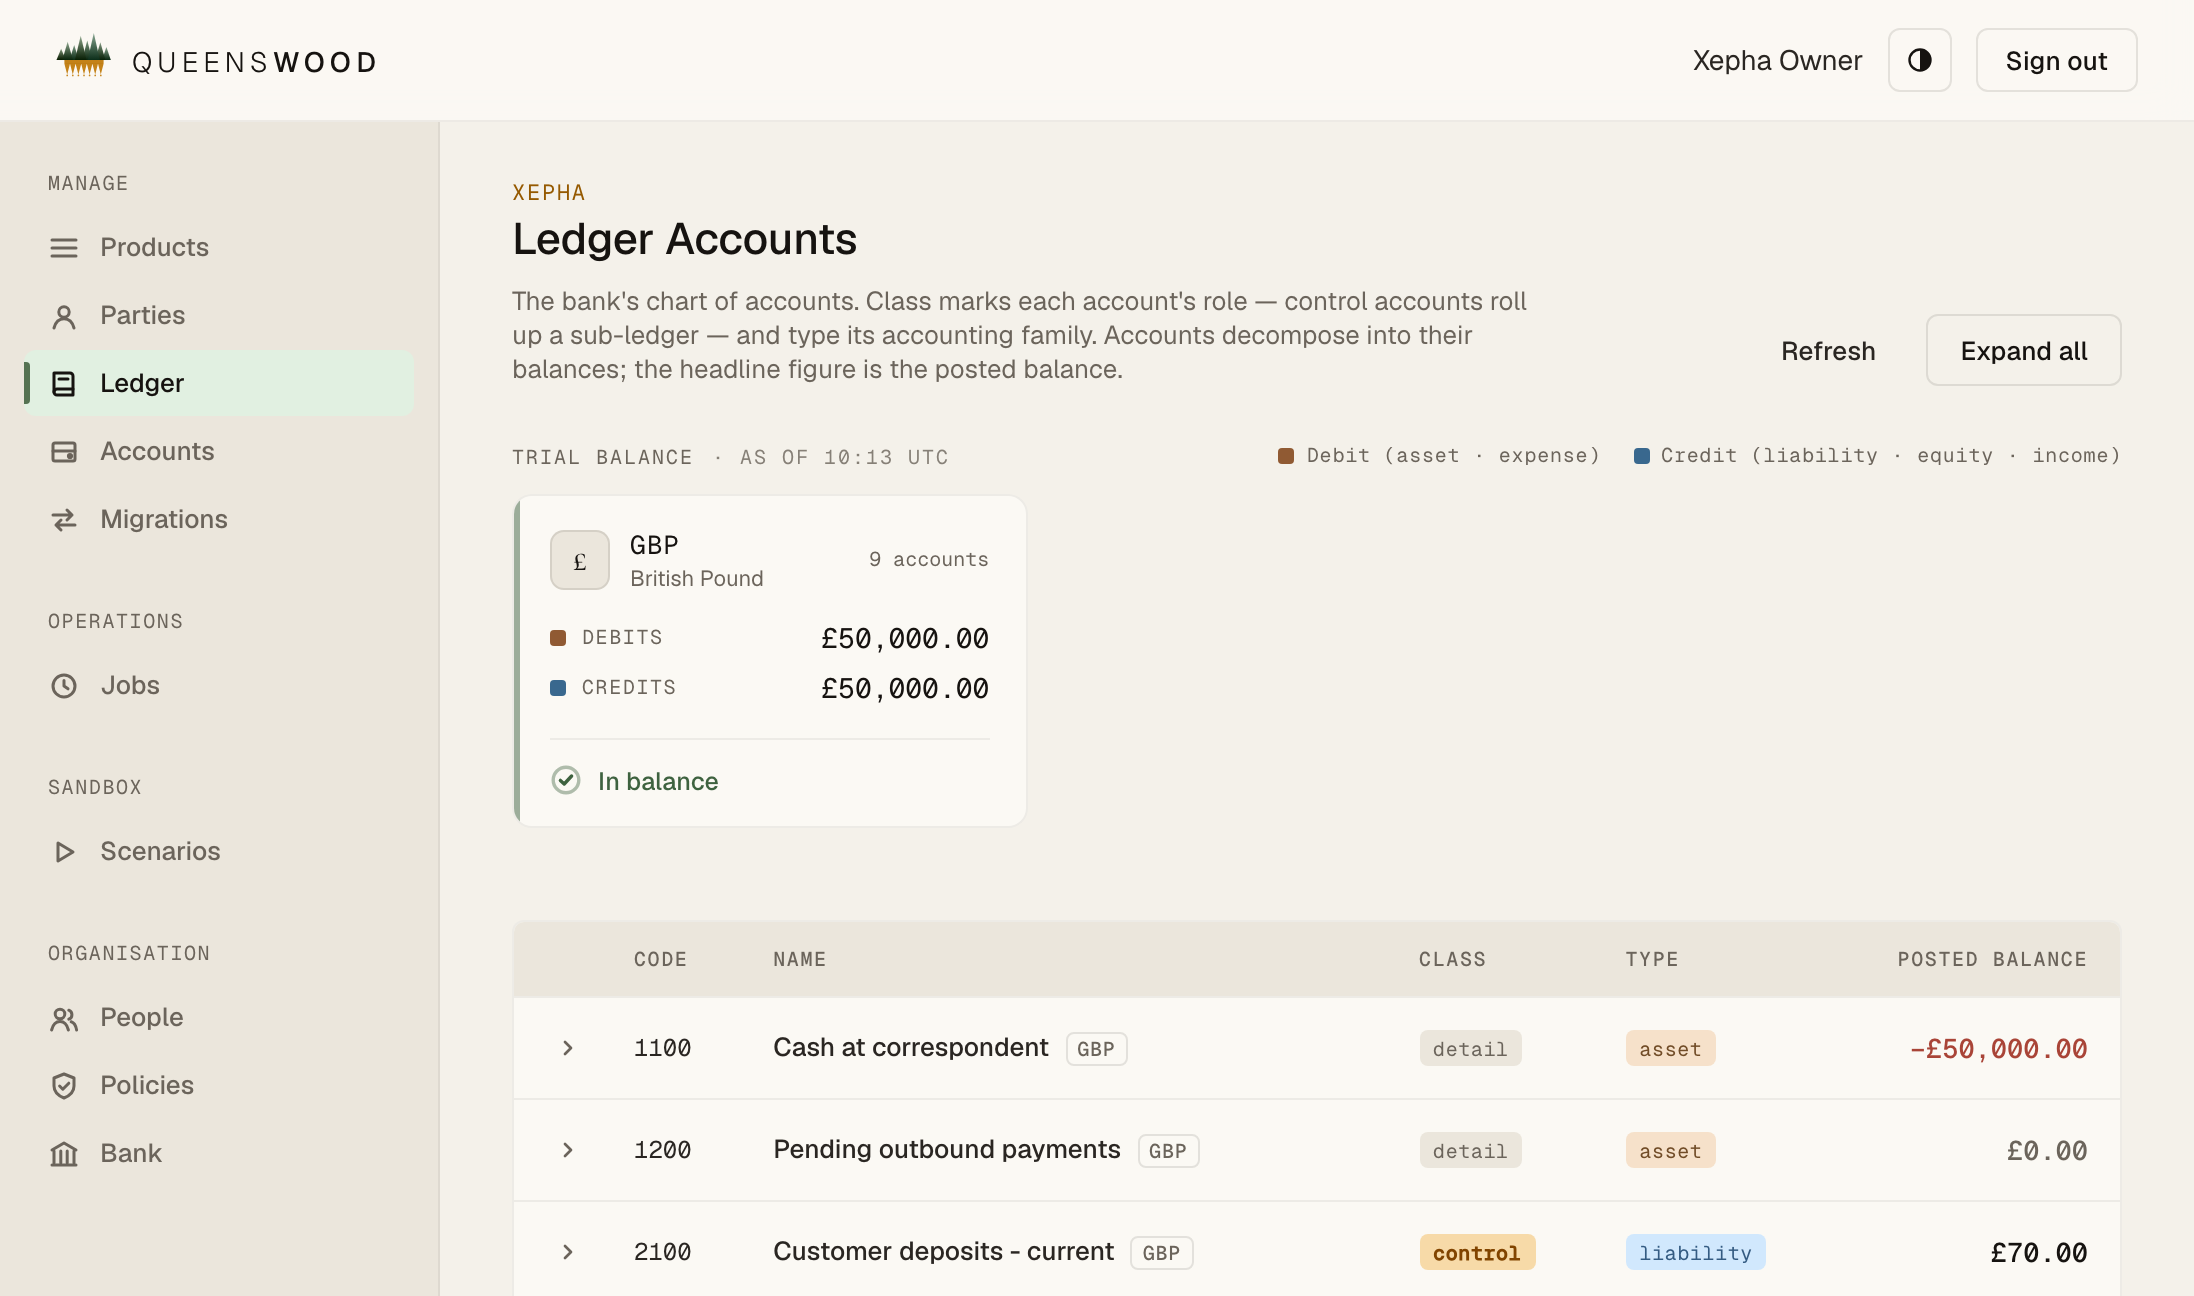
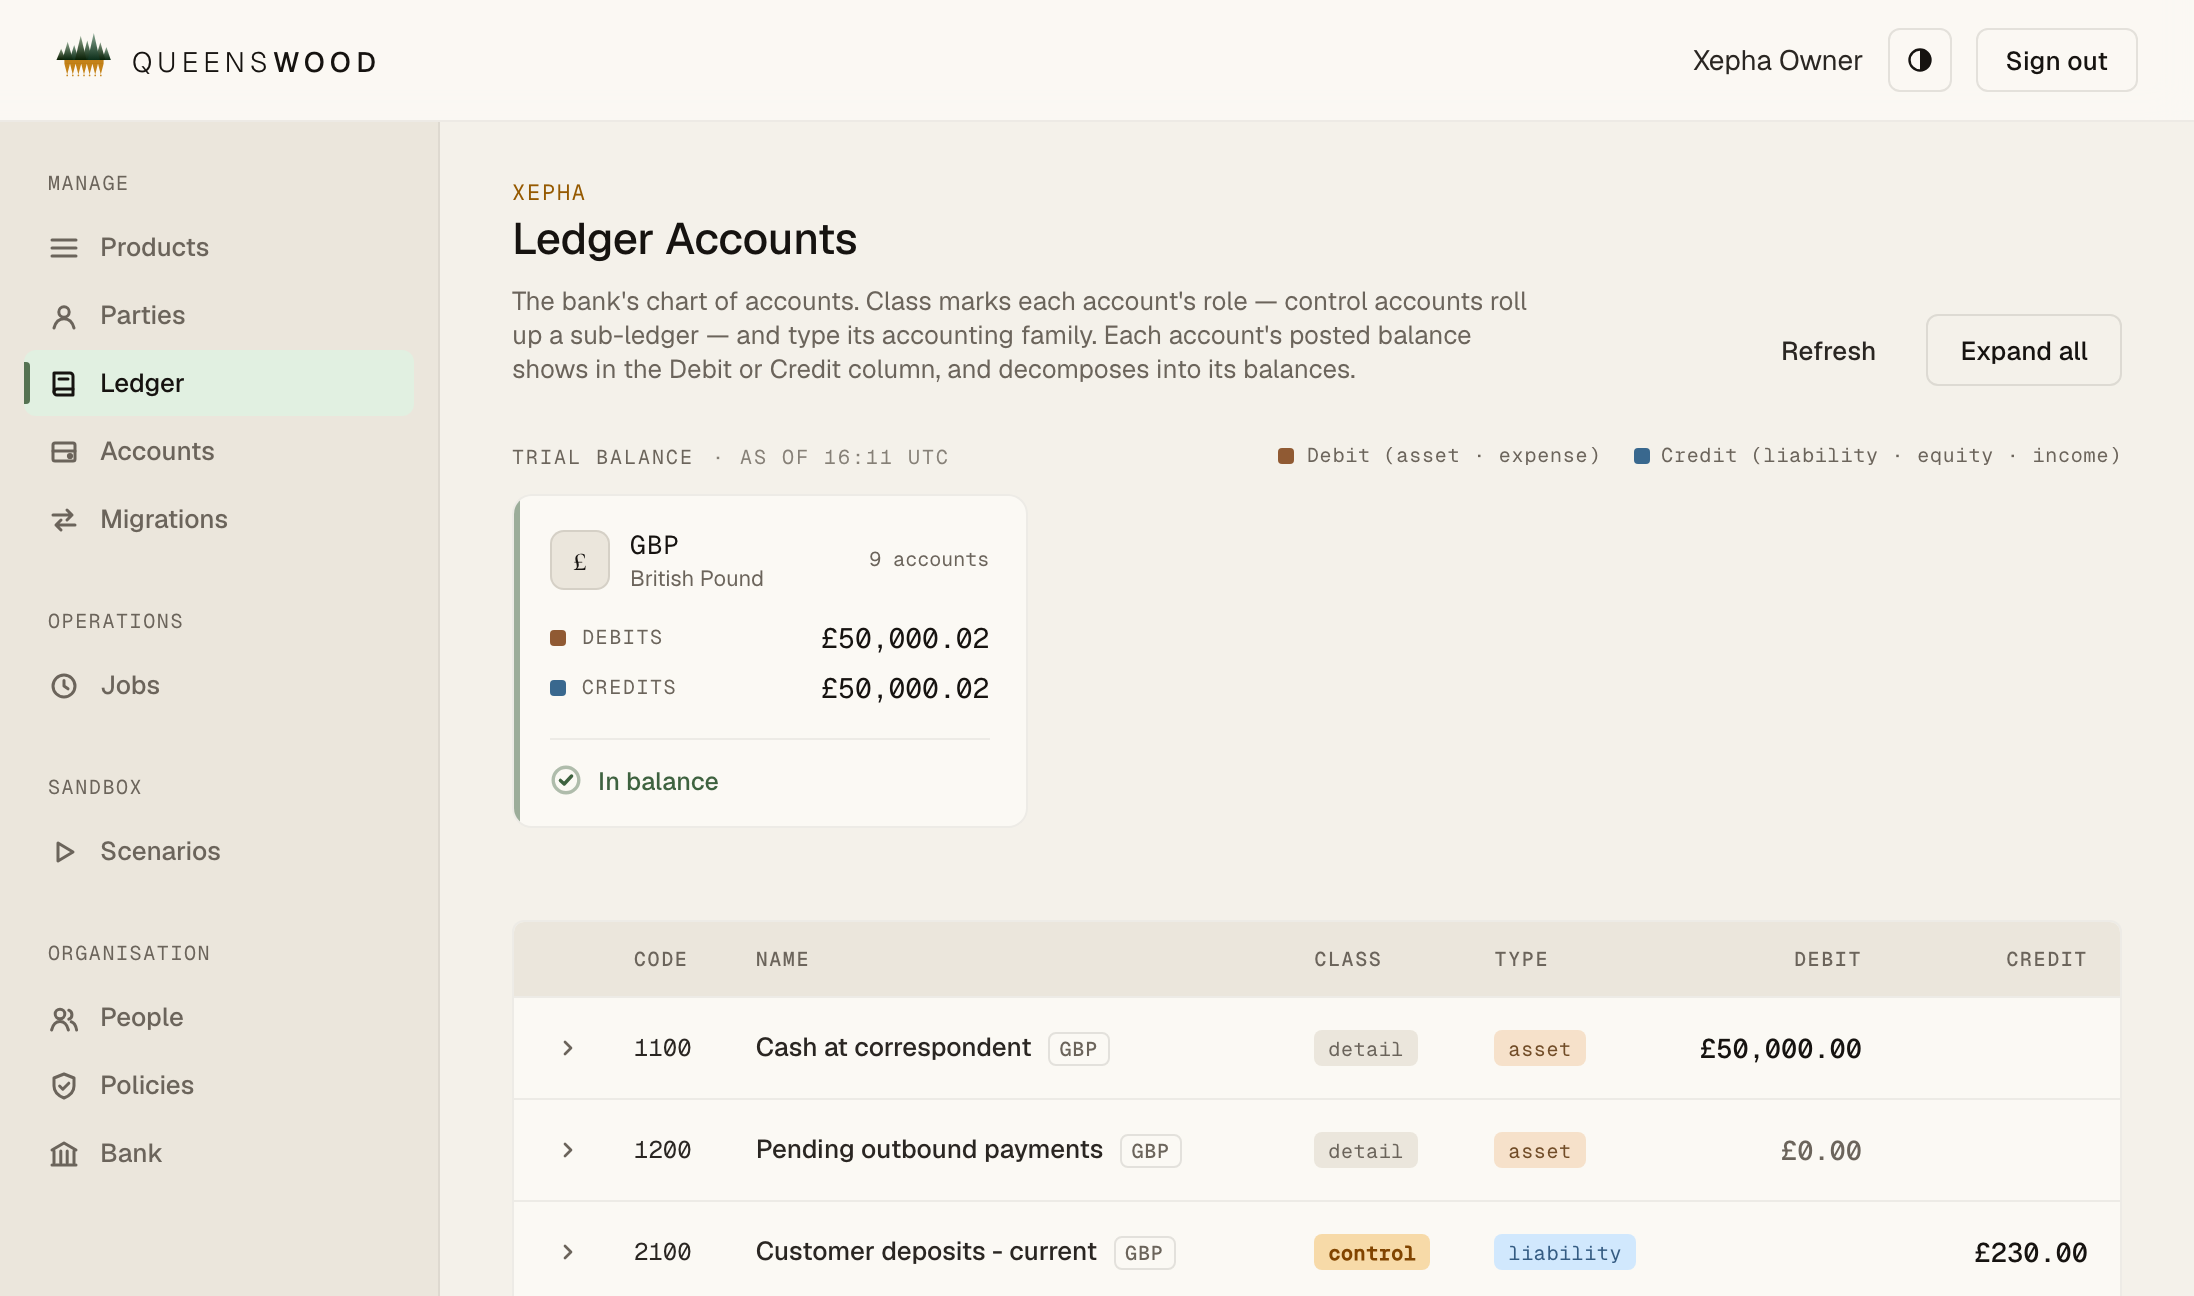
Link the console tour to its new take, and recapture the console's shots with the ledger in Debit and Credit columns

diff --git a/site/index.html b/site/index.html
@@ -37,7 +37,7 @@
         <a class="btn line" href="https://github.com/repldriven/queenswood"><svg viewBox="0 0 24 24" fill="currentColor" aria-hidden="true"><path d="M12 .5a12 12 0 0 0-3.8 23.4c.6.1.8-.3.8-.6v-2.2c-3.3.7-4-1.4-4-1.4-.6-1.4-1.4-1.8-1.4-1.8-1.1-.7.1-.7.1-.7 1.2.1 1.8 1.2 1.8 1.2 1.1 1.8 2.8 1.3 3.5 1 .1-.8.4-1.3.8-1.6-2.7-.3-5.5-1.3-5.5-5.9 0-1.3.5-2.4 1.2-3.2-.1-.3-.5-1.5.1-3.2 0 0 1-.3 3.3 1.2a11.5 11.5 0 0 1 6 0c2.3-1.5 3.3-1.2 3.3-1.2.6 1.7.2 2.9.1 3.2.8.8 1.2 1.9 1.2 3.2 0 4.6-2.8 5.6-5.5 5.9.4.4.8 1.1.8 2.2v3.3c0 .3.2.7.8.6A12 12 0 0 0 12 .5z"></path></svg>Source on GitHub</a>
       </div>
     </div>
-    <a class="shot rise d2" href="https://github.com/user-attachments/assets/6c2ffce4-6c2d-4c38-ae47-bf299f23ac12" aria-label="Watch a tour of the operator console"><img src="assets/demo-console.png" alt="A tour of what your bank can do, in the operator console" width="1200" height="750"><span class="cap">Watch the console tour</span></a>
+    <a class="shot rise d2" href="https://github.com/user-attachments/assets/cd3b010e-0e4e-491e-bdc2-14c518d6df70" aria-label="Watch a tour of the operator console"><img src="assets/demo-console.png" alt="A tour of what your bank can do, in the operator console" width="1200" height="750"><span class="cap">Watch the console tour</span></a>
   </div>
 </header>
 
